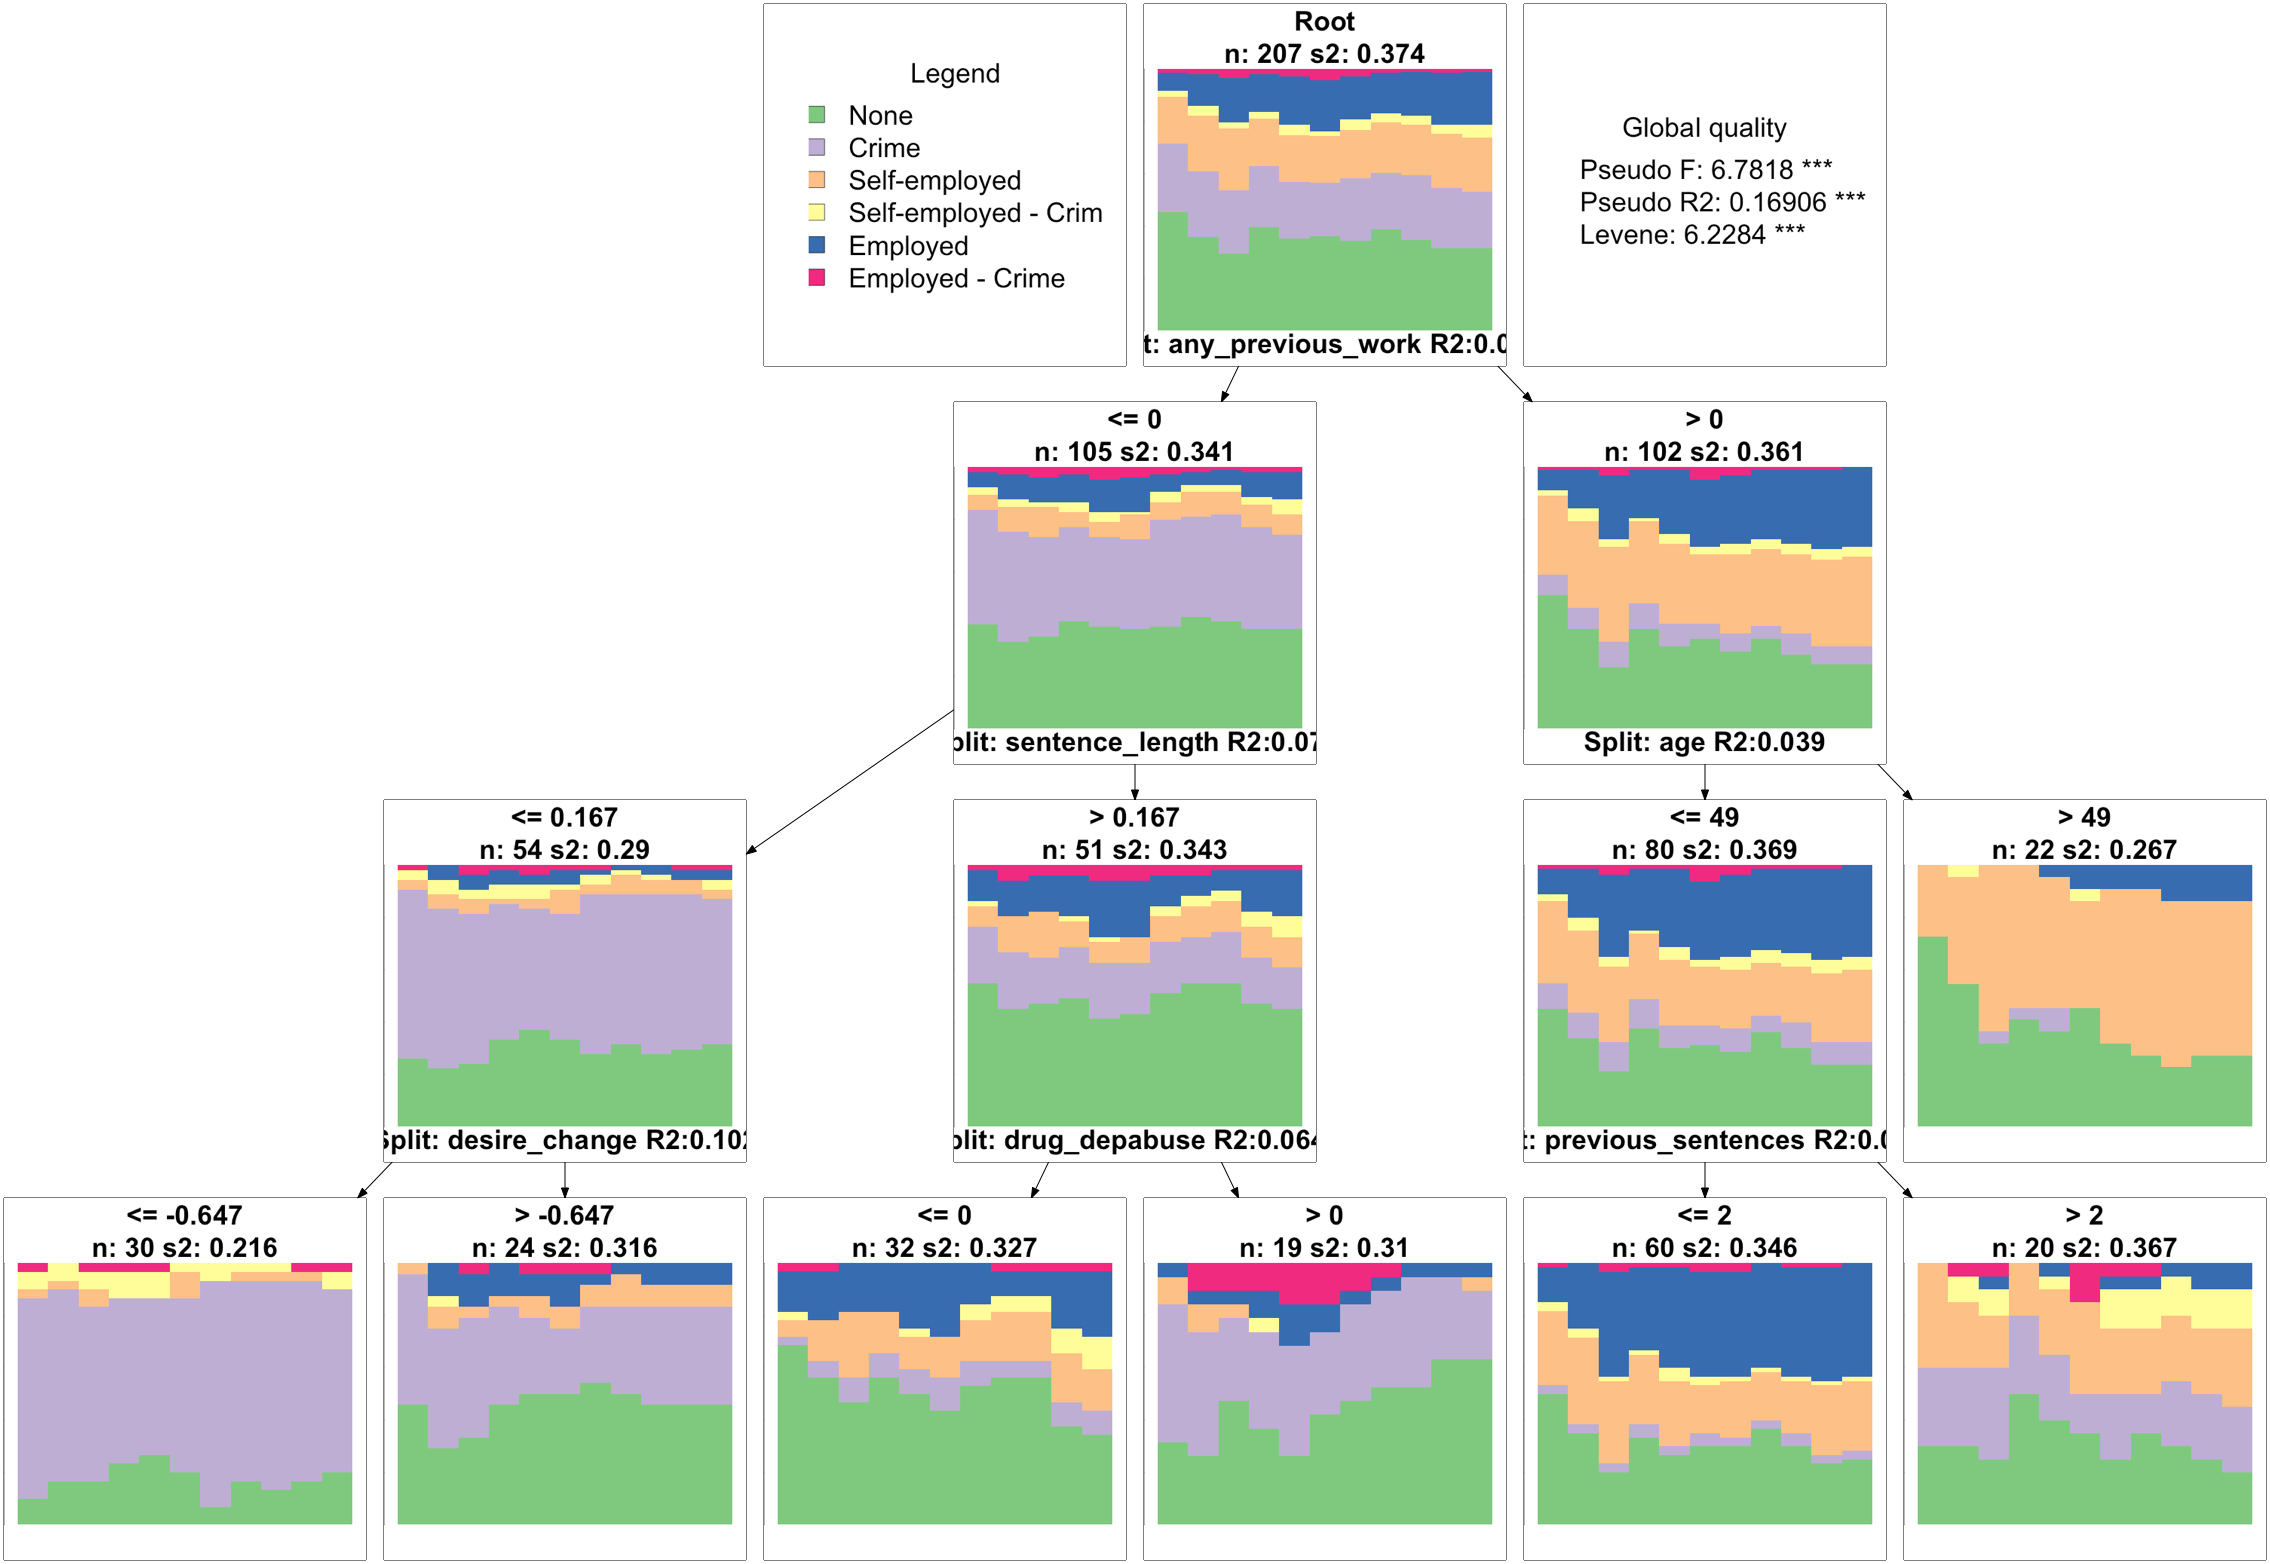
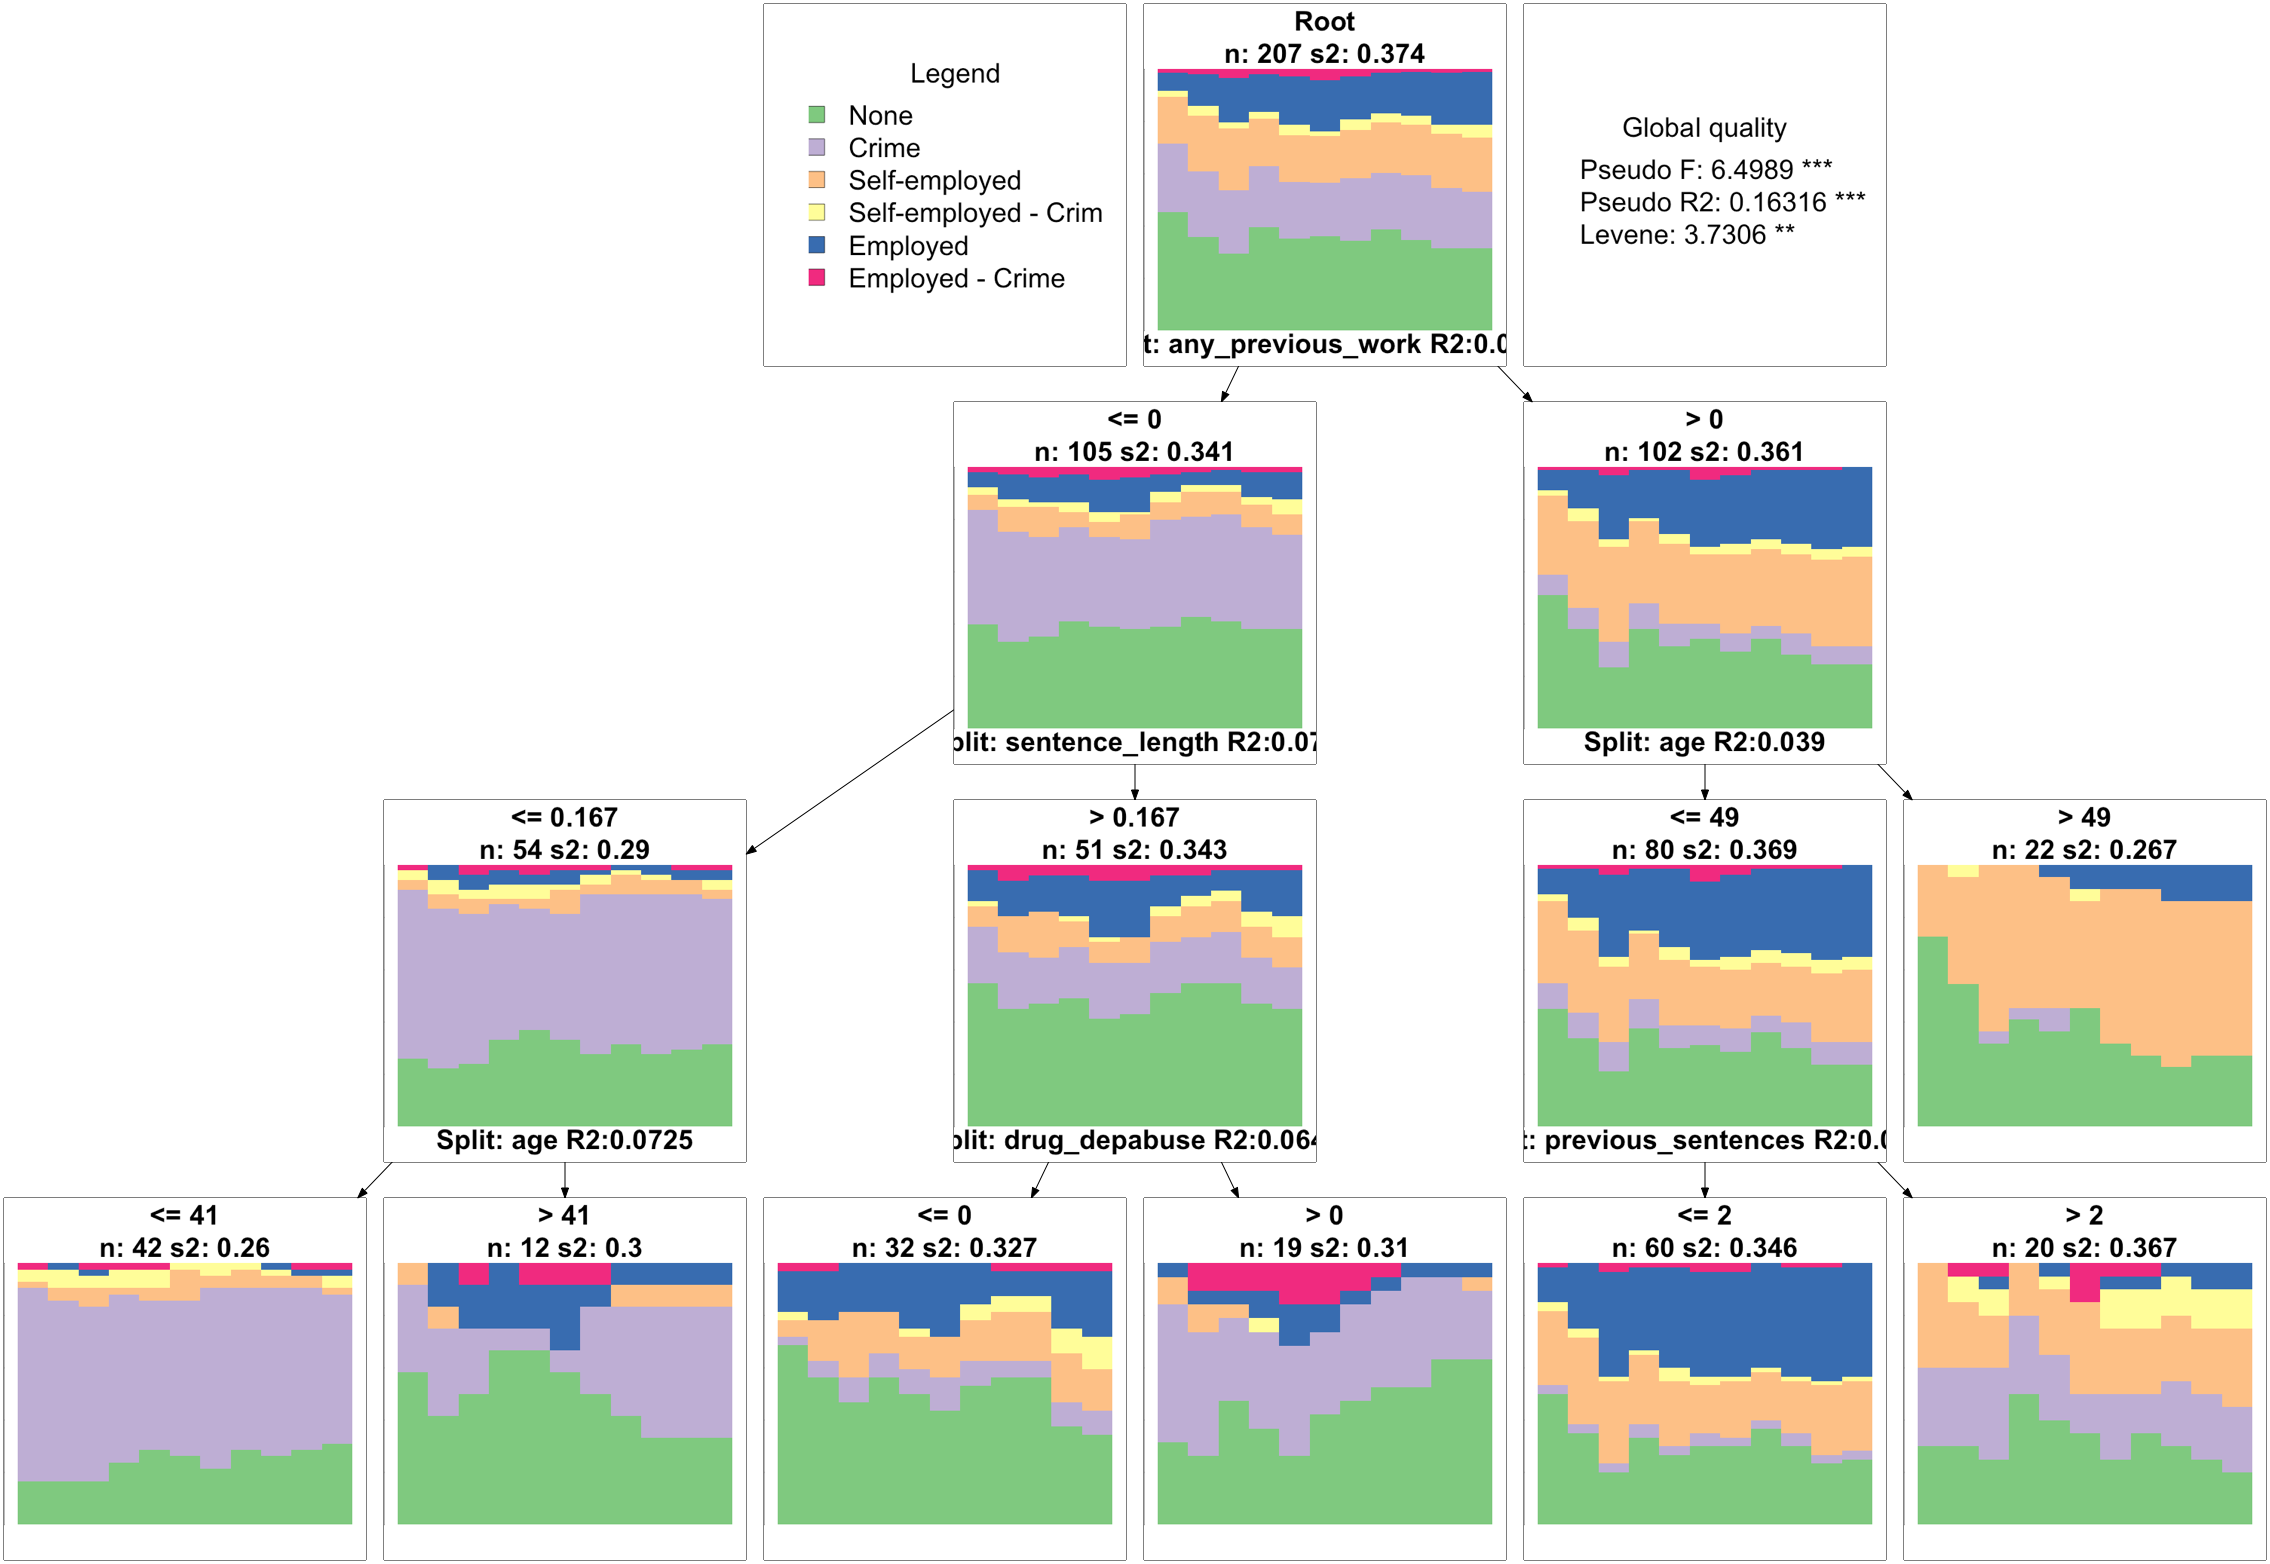
update code and output

diff --git a/output/models_job_crime_4.tex b/output/models_job_crime_4.tex
@@ -7,30 +7,30 @@
 \toprule
  & \multicolumn{1}{c}{Unemployed} & \multicolumn{1}{c}{Offenders} & \multicolumn{1}{c}{Self-employed} & \multicolumn{1}{c}{Employed} \\
 \midrule
-Age                          & 0.00     & -0.01^{*}  & 0.00       & 0.00      \\
-                             & (0.00)   & (0.00)     & (0.00)     & (0.00)    \\
-High school                  & -0.13    & -0.03      & 0.02       & 0.12^{*}  \\
-                             & (0.07)   & (0.06)     & (0.06)     & (0.05)    \\
-Worked before prison         & -0.12    & -0.15^{**} & 0.12^{*}   & 0.11^{*}  \\
-                             & (0.07)   & (0.06)     & (0.05)     & (0.05)    \\
-Number of children           & 0.00     & 0.02       & -0.01      & 0.00      \\
-                             & (0.02)   & (0.02)     & (0.02)     & (0.02)    \\
-Number of previous sentences & -0.01    & 0.01^{*}   & -0.00      & -0.03     \\
-                             & (0.01)   & (0.01)     & (0.00)     & (0.02)    \\
-Dependence / abuse of drugs  & 0.02     & 0.13^{*}   & -0.14^{*}  & 0.01      \\
-                             & (0.08)   & (0.06)     & (0.05)     & (0.06)    \\
-Mental health problems       & 0.02     & 0.00       & -0.00      & -0.01     \\
-                             & (0.03)   & (0.03)     & (0.03)     & (0.02)    \\
-Searched for jobs follow-up  & 0.18^{*} & -0.12^{*}  & -0.11^{*}  & 0.10^{*}  \\
-                             & (0.07)   & (0.06)     & (0.06)     & (0.05)    \\
-Prison during follow-up      & 0.03     & 0.10       & -0.18^{**} & -0.11^{*} \\
-                             & (0.09)   & (0.06)     & (0.06)     & (0.06)    \\
+Age                          & -0.00   & -0.01^{*}  & 0.01^{*}   & 0.00     \\
+                             & (0.00)  & (0.00)     & (0.00)     & (0.00)   \\
+High school                  & -0.13   & -0.03      & 0.01       & 0.14^{*} \\
+                             & (0.07)  & (0.05)     & (0.06)     & (0.06)   \\
+Worked before prison         & -0.10   & -0.17^{**} & 0.10       & 0.13^{*} \\
+                             & (0.07)  & (0.05)     & (0.05)     & (0.05)   \\
+Number of children           & 0.00    & 0.02       & -0.01      & 0.00     \\
+                             & (0.02)  & (0.01)     & (0.02)     & (0.02)   \\
+Number of previous sentences & -0.02   & 0.02^{*}   & -0.00      & -0.03    \\
+                             & (0.01)  & (0.01)     & (0.00)     & (0.01)   \\
+Sentence length in months    & 0.02    & -0.03      & -0.02      & 0.01     \\
+                             & (0.01)  & (0.02)     & (0.01)     & (0.01)   \\
+Dependence / abuse of drugs  & 0.02    & 0.10       & -0.15^{**} & 0.03     \\
+                             & (0.08)  & (0.06)     & (0.05)     & (0.07)   \\
+Mental health problems       & 0.03    & -0.00      & -0.01      & -0.00    \\
+                             & (0.03)  & (0.03)     & (0.03)     & (0.02)   \\
+Prison during follow-up      & 0.02    & 0.08       & -0.19^{**} & -0.11    \\
+                             & (0.09)  & (0.07)     & (0.06)     & (0.06)   \\
 \midrule
-Num.\ obs.                   & 206      & 206        & 206        & 206       \\
-Log Likelihood               & -122.43  & -73.08     & -82.96     & -76.52    \\
-Deviance                     & 244.86   & 146.16     & 165.92     & 153.05    \\
-AIC                          & 264.86   & 166.16     & 185.92     & 173.05    \\
-BIC                          & 298.14   & 199.43     & 219.19     & 206.33    \\
+Num.\ obs.                   & 204     & 204        & 204        & 204      \\
+Log Likelihood               & -122.12 & -71.91     & -83.43     & -75.74   \\
+Deviance                     & 244.24  & 143.82     & 166.86     & 151.48   \\
+AIC                          & 264.24  & 163.82     & 186.86     & 171.48   \\
+BIC                          & 297.42  & 197.00     & 220.04     & 204.66   \\
 \bottomrule
 \multicolumn{5}{l}{\tiny{$^{***}p<0.001$, $^{**}p<0.01$, $^*p<0.05$. Robust standard errors in parenthesis.}}
 \end{tabular}

diff --git a/output/models_job_4.tex b/output/models_job_4.tex
@@ -3,34 +3,34 @@
 \caption{Marginal effects of logistics models of employment cluster membership \newline based on solution in Figure \ref{fig:sequences_job_4}}
 \begin{center}
 \begin{footnotesize}
-\begin{tabular}{l D{.}{.}{4.5} D{.}{.}{3.4} D{.}{.}{3.3} D{.}{.}{3.3} }
+\begin{tabular}{l D{.}{.}{4.5} D{.}{.}{3.3} D{.}{.}{3.3} D{.}{.}{3.3} }
 \toprule
  & \multicolumn{1}{c}{Unemployed} & \multicolumn{1}{c}{Self-employed} & \multicolumn{1}{c}{Under-the-table} & \multicolumn{1}{c}{Legitimate employed} \\
 \midrule
-Age                          & -0.01       & 0.00      & 0.00      & -0.00    \\
+Age                          & -0.01       & 0.01      & 0.00      & -0.00    \\
                              & (0.00)      & (0.00)    & (0.00)    & (0.00)   \\
-High school                  & -0.17^{**}  & 0.03      & 0.03      & 0.10^{*} \\
-                             & (0.06)      & (0.06)    & (0.05)    & (0.04)   \\
-Worked before prison         & -0.29^{***} & 0.18^{**} & 0.04      & 0.05     \\
+High school                  & -0.18^{**}  & 0.02      & 0.04      & 0.10^{*} \\
+                             & (0.06)      & (0.07)    & (0.05)    & (0.04)   \\
+Worked before prison         & -0.29^{***} & 0.16^{*}  & 0.04      & 0.08^{*} \\
                              & (0.07)      & (0.06)    & (0.04)    & (0.03)   \\
-Number of children           & 0.01        & -0.00     & -0.01     & 0.00     \\
+Number of children           & 0.01        & -0.01     & -0.01     & 0.01     \\
                              & (0.02)      & (0.02)    & (0.02)    & (0.01)   \\
 Number of previous sentences & 0.00        & 0.00      & -0.00     & -0.01    \\
                              & (0.01)      & (0.00)    & (0.01)    & (0.01)   \\
-Dependence / abuse of drugs  & 0.13        & -0.11     & 0.02      & -0.04    \\
-                             & (0.08)      & (0.07)    & (0.05)    & (0.03)   \\
-Mental health problems       & 0.02        & -0.01     & 0.00      & -0.02    \\
-                             & (0.03)      & (0.03)    & (0.01)    & (0.02)   \\
-Searched for jobs follow-up  & -0.01       & -0.10     & 0.04      & 0.08^{*} \\
-                             & (0.06)      & (0.06)    & (0.04)    & (0.03)   \\
-Prison during follow-up      & 0.21^{**}   & -0.16^{*} & -0.09^{*} & 0.02     \\
-                             & (0.08)      & (0.07)    & (0.04)    & (0.05)   \\
+Sentence length in months    & 0.00        & -0.02     & 0.00      & 0.01     \\
+                             & (0.01)      & (0.01)    & (0.01)    & (0.01)   \\
+Dependence / abuse of drugs  & 0.12        & -0.12     & 0.04      & -0.03    \\
+                             & (0.07)      & (0.07)    & (0.06)    & (0.03)   \\
+Mental health problems       & 0.02        & -0.02     & 0.00      & -0.01    \\
+                             & (0.03)      & (0.03)    & (0.02)    & (0.02)   \\
+Prison during follow-up      & 0.21^{*}    & -0.16^{*} & -0.09^{*} & 0.03     \\
+                             & (0.08)      & (0.07)    & (0.04)    & (0.06)   \\
 \midrule
-Num.\ obs.                   & 206         & 206       & 206       & 206      \\
-Log Likelihood               & -104.11     & -95.88    & -63.94    & -42.21   \\
-Deviance                     & 208.21      & 191.75    & 127.89    & 84.41    \\
-AIC                          & 228.21      & 211.75    & 147.89    & 104.41   \\
-BIC                          & 261.49      & 245.03    & 181.17    & 137.69   \\
+Num.\ obs.                   & 204         & 204       & 204       & 204      \\
+Log Likelihood               & -103.20     & -95.23    & -61.76    & -43.45   \\
+Deviance                     & 206.40      & 190.46    & 123.52    & 86.90    \\
+AIC                          & 226.40      & 210.46    & 143.52    & 106.90   \\
+BIC                          & 259.59      & 243.64    & 176.70    & 140.08   \\
 \bottomrule
 \multicolumn{5}{l}{\tiny{$^{***}p<0.001$, $^{**}p<0.01$, $^*p<0.05$. Robust standard errors in parenthesis.}}
 \end{tabular}

diff --git a/output/discrepancy_job_crime.tex b/output/discrepancy_job_crime.tex
@@ -1,0 +1,32 @@
+% latex table generated in R 3.6.0 by xtable 1.8-4 package
+% Thu Jan  9 12:51:33 2020
+\begin{table}[htp]
+\footnotesize
+\setlength{\tabcolsep}{10pt}
+\renewcommand{\arraystretch}{1.3}
+\begin{threeparttable}
+\centering
+\caption{Multi-factor discrepancy analysis for job and crime sequences (N = 204)} 
+\label{tab:discrepancy_crime_job}
+\begin{tabular}{lccc}
+  \hline
+Covariate & Pseudo F & Pseudo $R^2$ & p-value \\ 
+  \hline
+Worked before prison & 5.29 & 0.02 & 0.00 \\ 
+  Number of previous sentences & 3.48 & 0.02 & 0.00 \\ 
+  Prison during follow-up & 2.81 & 0.01 & 0.00 \\ 
+  Age & 2.59 & 0.01 & 0.00 \\ 
+  Sentence length in months & 2.13 & 0.01 & 0.03 \\ 
+  Dependence / abuse of drugs & 1.93 & 0.01 & 0.04 \\ 
+  High school & 1.22 & 0.01 & 0.27 \\ 
+  Number of children & 0.86 & 0.00 & 0.58 \\ 
+  Mental health problems & 0.65 & 0.00 & 0.82 \\ 
+  Total & 4.22 & 0.16 & 0.00 \\ 
+   \hline
+\end{tabular}
+\begin{tablenotes}
+\scriptsize
+\item Estimation based on Hamming distances of sequences.
+\end{tablenotes}
+\end{threeparttable}
+\end{table}

diff --git a/output/descriptives_job_4.tex b/output/descriptives_job_4.tex
@@ -1,5 +1,5 @@
 % latex table generated in R 3.6.0 by xtable 1.8-4 package
-% Mon Jan  6 14:59:17 2020
+% Thu Jan  9 12:50:59 2020
 \begin{table}[htp]
 \footnotesize
 \setlength{\tabcolsep}{10pt}
@@ -17,6 +17,7 @@ Age* & 34.05 & 41.90 & 40.64 & 34.12 \\
   Number of children* & 2.39 & 3.02 & 2.64 & 2.06 \\ 
   Worked before prison & 0.31 & 0.75 & 0.68 & 0.81 \\ 
   Number of previous sentences* & 5.17 & 3.12 & 2.09 & 1.06 \\ 
+  Sentence length in months* & 1.81 & 2.18 & 3.15 & 3.79 \\ 
   Dependence / abuse of drugs & 0.53 & 0.18 & 0.27 & 0.19 \\ 
   Mental health problems* & 0.14 & -0.09 & -0.04 & -0.29 \\ 
   Searched for jobs follow-up & 0.42 & 0.43 & 0.64 & 0.88 \\ 

diff --git a/output/descriptives_job_crime_4.tex b/output/descriptives_job_crime_4.tex
@@ -1,5 +1,5 @@
 % latex table generated in R 3.6.0 by xtable 1.8-4 package
-% Mon Jan  6 14:59:17 2020
+% Thu Jan  9 12:50:59 2020
 \begin{table}[htp]
 \footnotesize
 \setlength{\tabcolsep}{10pt}
@@ -17,6 +17,7 @@ Age* & 35.99 & 31.44 & 43.11 & 38.46 \\
   Number of children* & 2.46 & 2.33 & 3.00 & 2.49 \\ 
   Worked before prison & 0.43 & 0.18 & 0.75 & 0.78 \\ 
   Number of previous sentences* & 2.62 & 9.07 & 2.09 & 1.11 \\ 
+  Sentence length in months* & 2.64 & 0.68 & 2.36 & 3.55 \\ 
   Dependence / abuse of drugs & 0.41 & 0.70 & 0.11 & 0.22 \\ 
   Mental health problems* & 0.12 & 0.14 & -0.09 & -0.17 \\ 
   Searched for jobs follow-up & 0.61 & 0.23 & 0.41 & 0.73 \\ 
